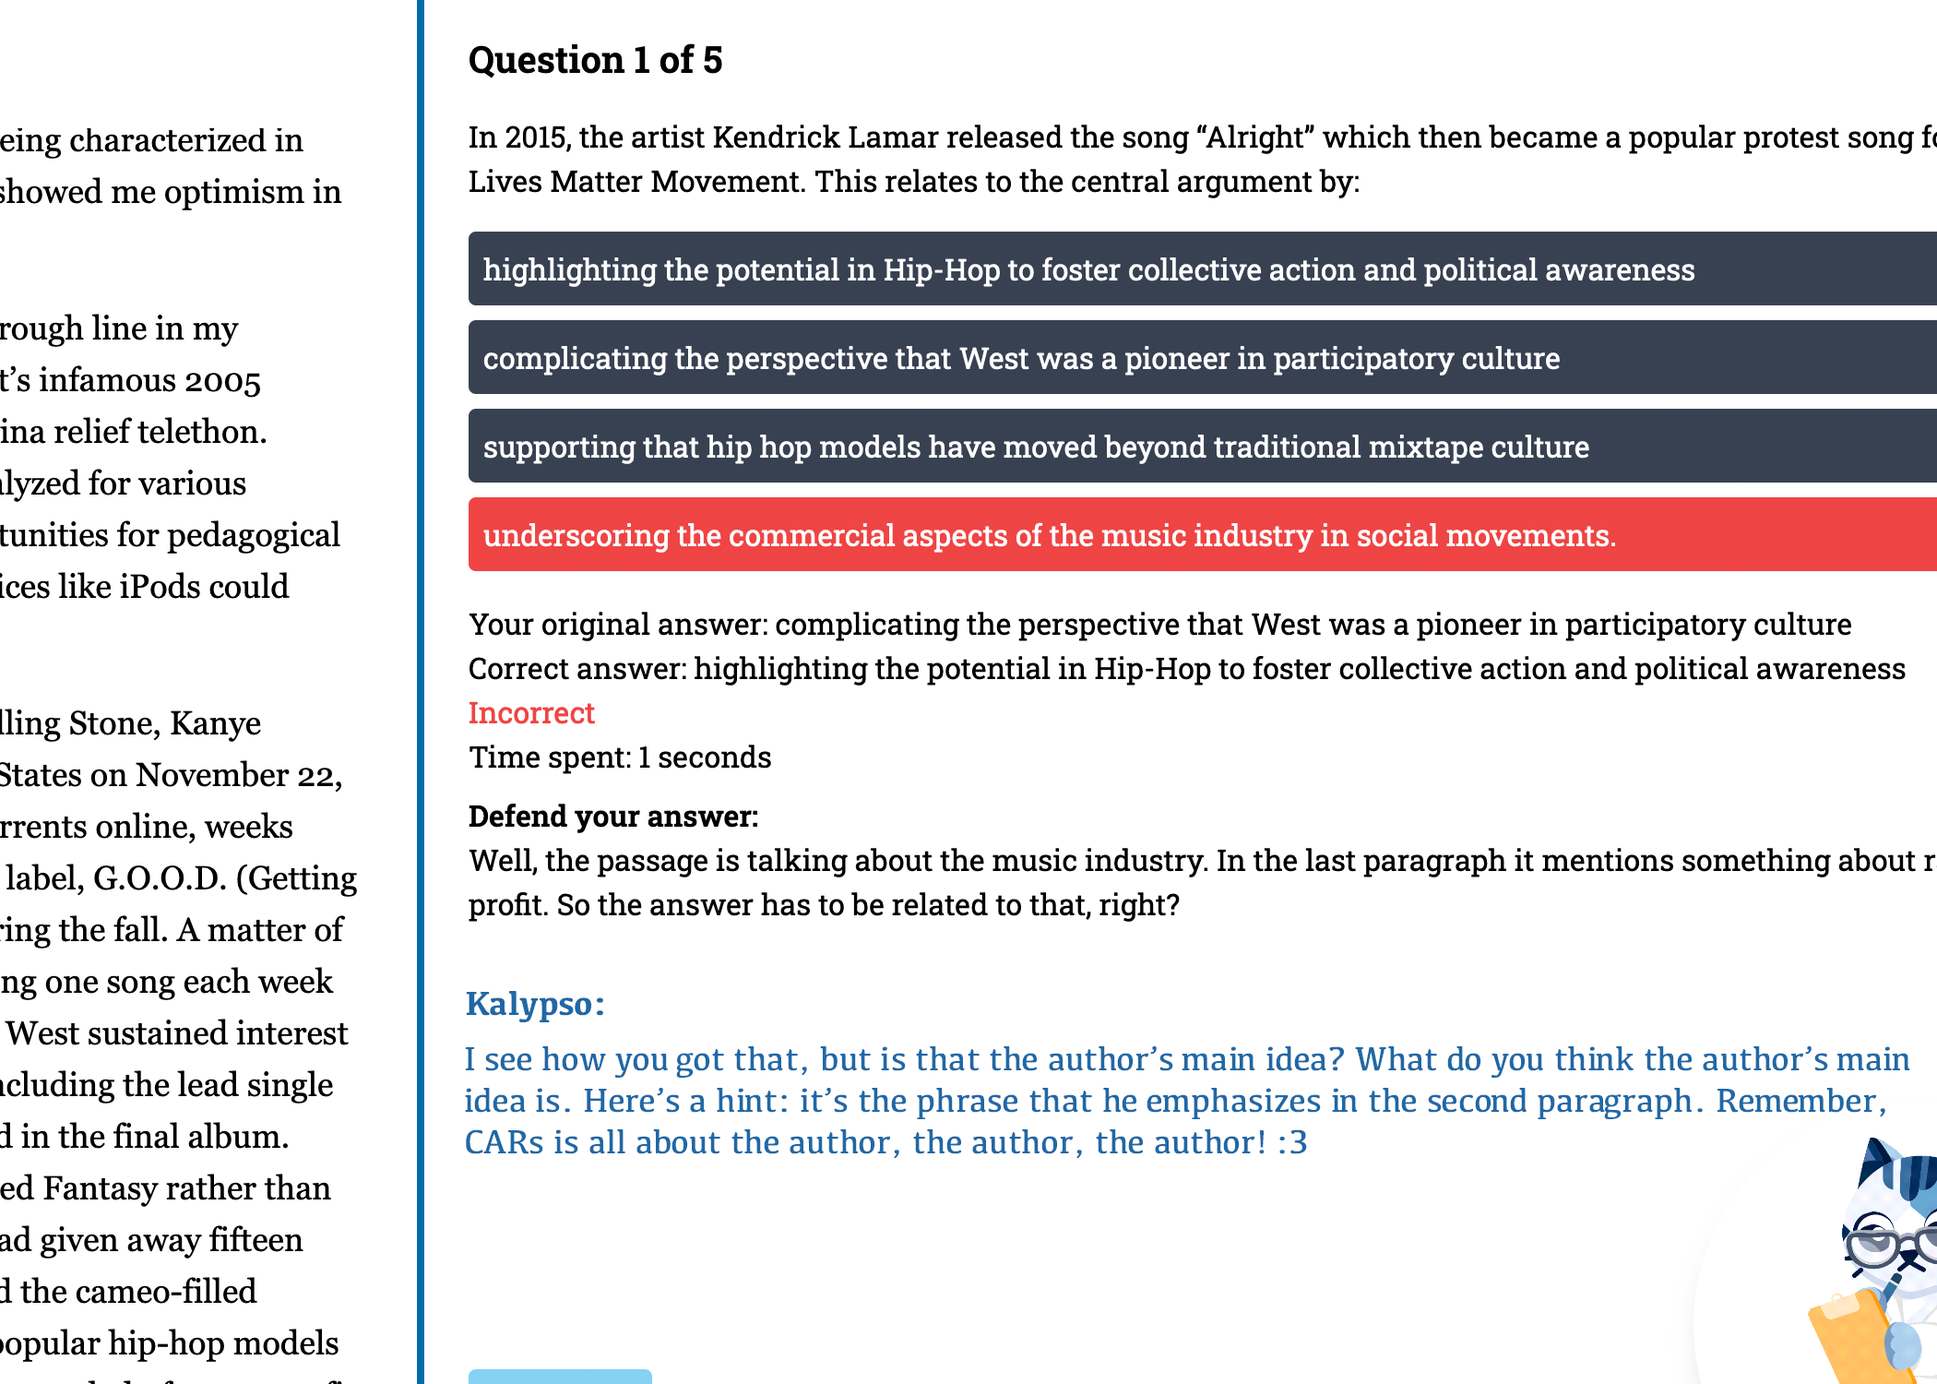
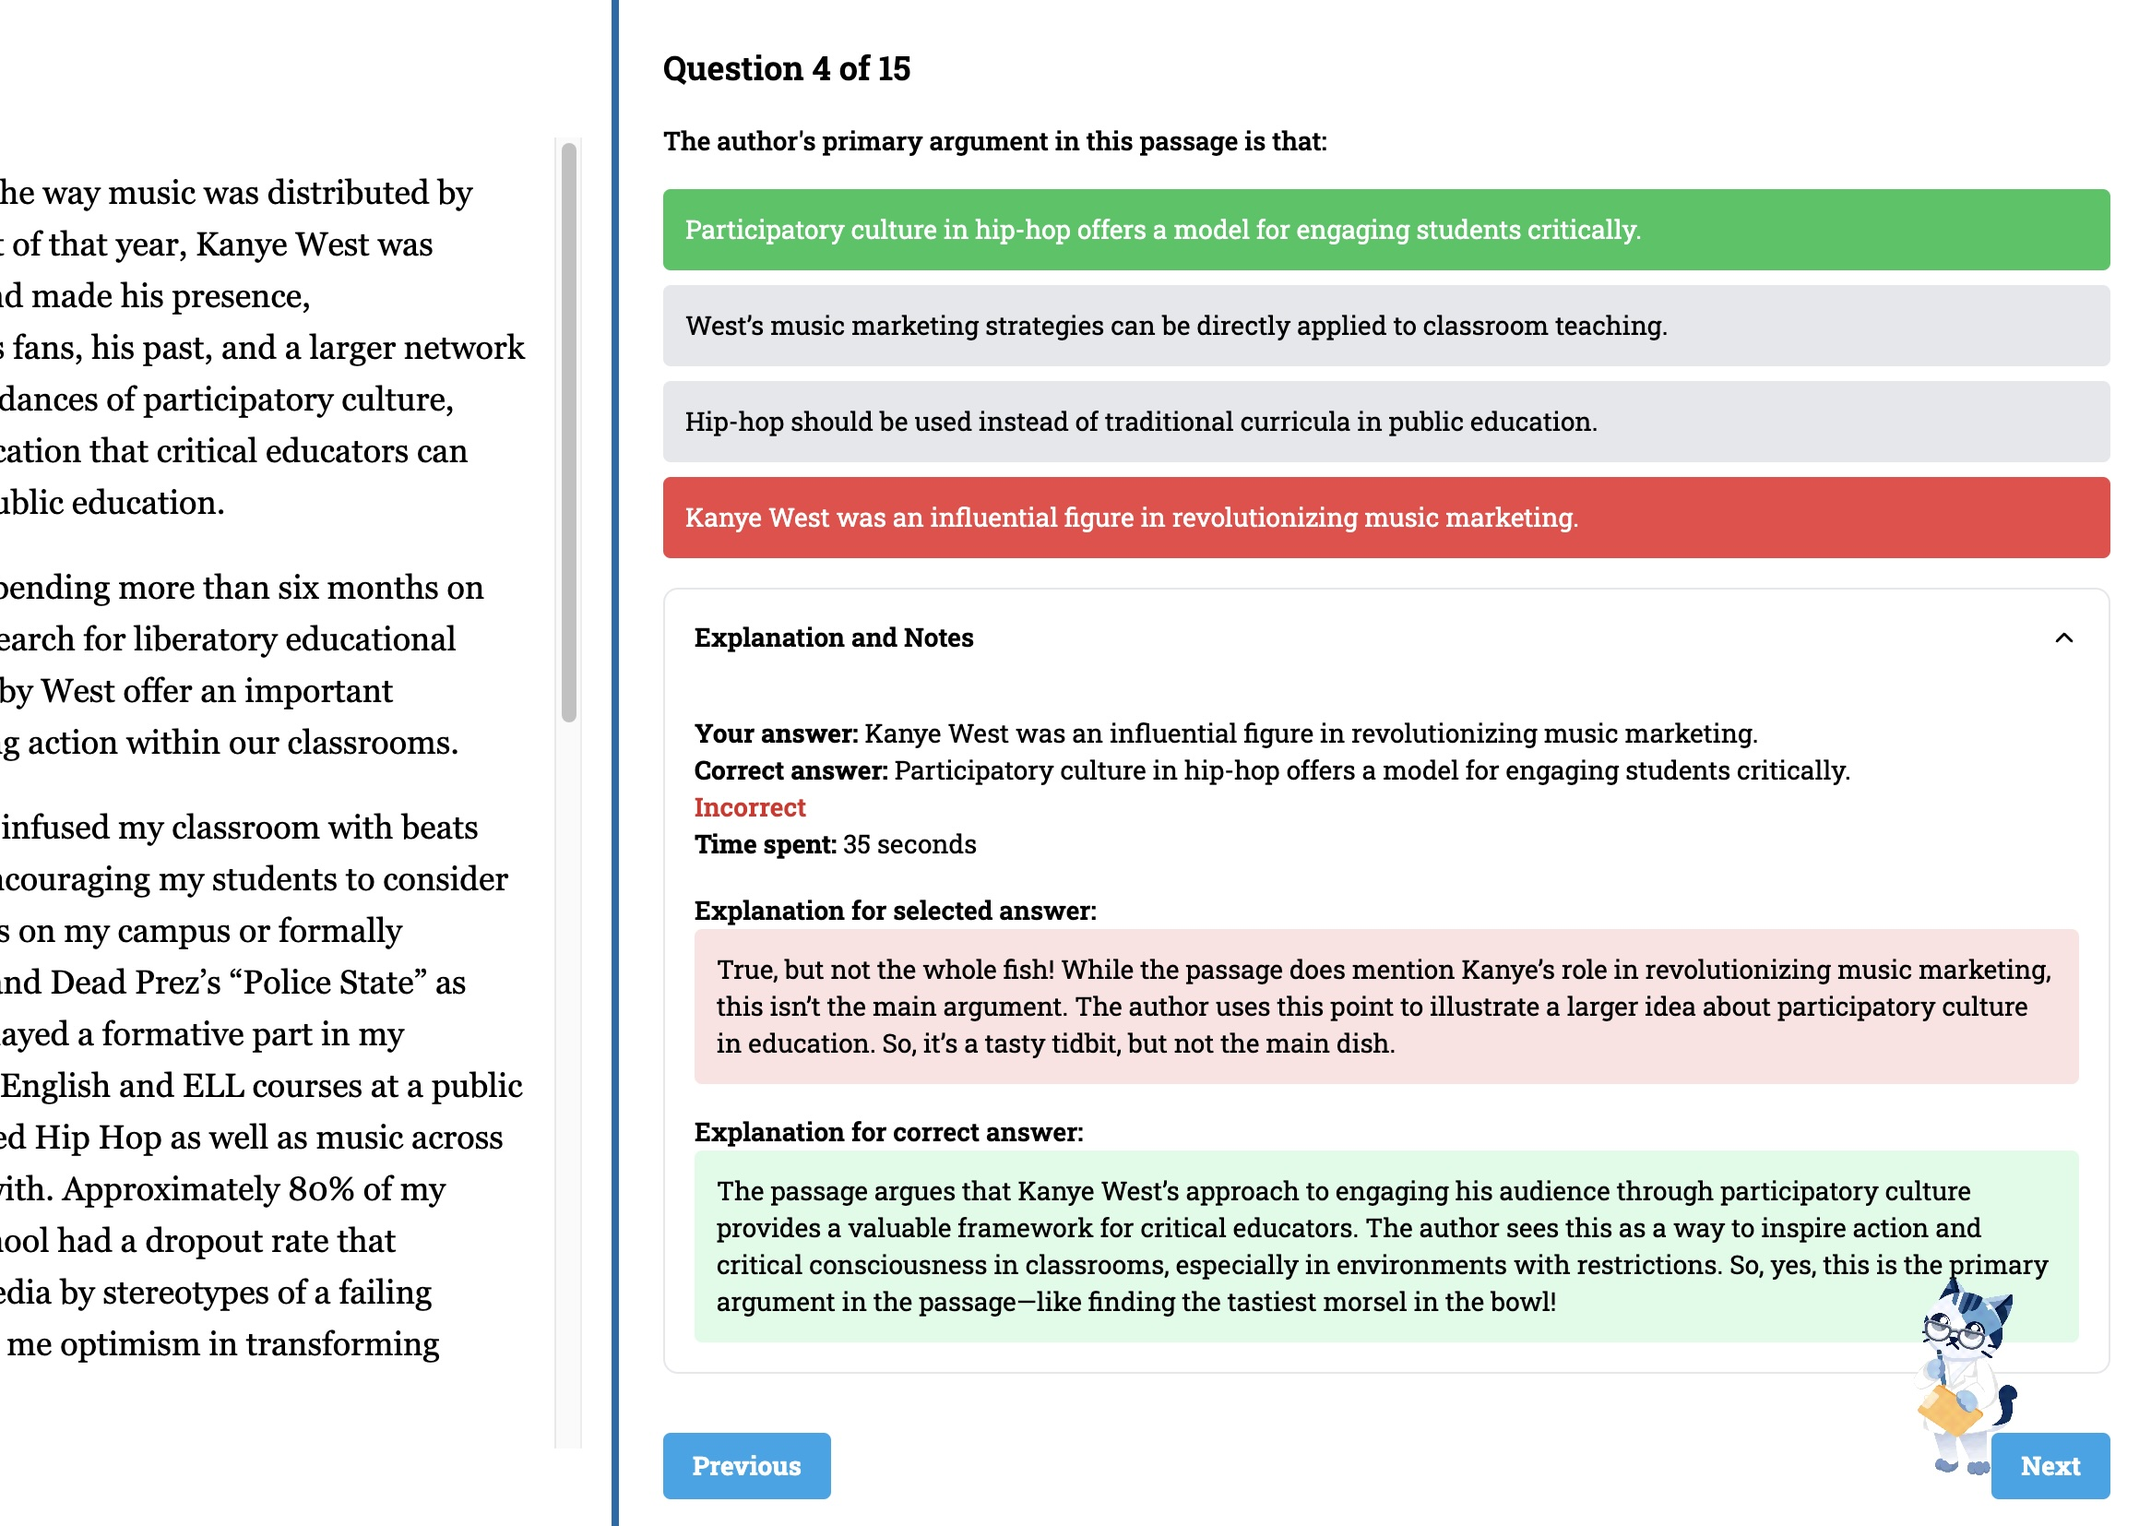
update CARs chatbot

diff --git a/app/(dashboard)/(routes)/user-test/[id]/ReviewQuestion.tsx b/app/(dashboard)/(routes)/user-test/[id]/ReviewQuestion.tsx
@@ -1,10 +1,13 @@
-// components/review/ReviewQuestion.tsx
 import React, { useState, useEffect } from 'react';
 import { Question, UserResponse } from '@/types';
-import ChatBotWidget from '@/components/chatbot/ChatbotWidget';
+import { Collapsible, CollapsibleContent, CollapsibleTrigger } from "@/components/ui/collapsible";
+import { ChevronDown, ChevronUp } from "lucide-react";
+import ChatbotWidget from '@/components/chatbot/ChatbotWidget';
+import { PassageData } from '@/components/test/Passage';
 
 interface ReviewQuestionComponentProps {
   question?: Question;
+  passageData?: PassageData;
   userResponse: UserResponse;
   onNext: () => void;
   onPrevious: () => void;
@@ -17,6 +20,7 @@ interface ReviewQuestionComponentProps {
 const ReviewQuestionComponent: React.FC<ReviewQuestionComponentProps> = ({
   question,
   userResponse,
+  passageData,
   onNext,
   onPrevious,
   isFirst,
@@ -24,70 +28,125 @@ const ReviewQuestionComponent: React.FC<ReviewQuestionComponentProps> = ({
   currentQuestionIndex,
   totalQuestions
 }) => {
-  const [selectedOption, setSelectedOption] = useState<string>(userResponse.userAnswer);
-  const [selectedAnswerNote, setSelectedAnswerNote] = useState<string>('');
-
+  const [explanations, setExplanations] = useState<string[]>([]);
+  const [selectedExplanationIndex, setSelectedExplanationIndex] = useState<number | null>(null);
+  const [isOpen, setIsOpen] = useState(true);
+  const [chatbotContext, setChatbotContext] = useState({
+    contentTitle: "",
+    context: ""
+  });
   useEffect(() => {
     if (question) {
-      setSelectedOption(userResponse.userAnswer);
       const options = JSON.parse(question.questionOptions);
       const answerNotes = JSON.parse(question.questionAnswerNotes || '[]');
+      setExplanations(answerNotes);
       const userAnswerIndex = options.indexOf(userResponse.userAnswer);
-      setSelectedAnswerNote(answerNotes[userAnswerIndex] || '');
+      setSelectedExplanationIndex(userAnswerIndex);
+
+      const correctAnswer = options[0];
+      const userAnswer = options[userAnswerIndex];
+
+      const context = `
+      I'm reviewing a test question I've answered, here's some context
+
+      ${passageData ? "Questions Passage: " + passageData.text : ""} \n
+      Question: ${question.questionContent} \n
+      Options: ${question.questionOptions} \n
+      Correct Answer: ${correctAnswer} \n
+      My Answer: ${userAnswer} \n
+      Result: ${userResponse.isCorrect ? 'Correct' : 'Incorrect'} \n
+      Time Spent: ${userResponse.timeSpent || "0"} seconds \n
+      ${userResponse.isCorrect? "": `Explanation for my answer: ${answerNotes[userAnswerIndex] || 'No explanation available.'} \n`}
+      
+      Explanation for correct answer: ${answerNotes[0] || 'No explanation available.'} \n
+            
+      Please provide any insights, clarifications, or additional information about this question and the answers.
+            `.trim();
+      setChatbotContext({
+        contentTitle: question.questionContent.slice(0.60),
+        context
+      })
     }
+
+
   }, [question, userResponse]);
 
-  if(!question) return null
+  if (!question) return null;
   const options = JSON.parse(question.questionOptions);
-  const answerNotes = JSON.parse(question.questionAnswerNotes || '[]');
+  const correctAnswerIndex = 0; // Assuming the correct answer is always the first option
 
-  const handleOptionClick = (option: string, index: number) => {
-    setSelectedOption(option);
-    setSelectedAnswerNote(answerNotes[index] || '');
+  const getOptionClass = (index: number) => {
+    if (index === correctAnswerIndex) {
+      return 'bg-green-500 text-white';
+    }
+    if (index === options.indexOf(userResponse.userAnswer) && !userResponse.isCorrect) {
+      return 'bg-red-500 text-white';
+    }
+    if (index === selectedExplanationIndex) {
+      return 'bg-blue-500 text-white';
+    }
+    return 'bg-gray-200 text-black hover:bg-gray-300 cursor-pointer';
   };
 
-  const chatbotContext = {
-    contentTitle: question.passageId ? question.passageId.toString() : 'Unknown Passage',
-    context: answerNotes.join(' ')
+  const handleOptionClick = (index: number) => {
+    setSelectedExplanationIndex(index);
   };
 
   return (
-    <div className="p-6 bg-white text-black h-full flex flex-col">
-      <h2 className="text-xl font-semibold mb-4">Question {currentQuestionIndex + 1} of {totalQuestions}</h2>
-      <div className="mb-4 flex-grow">
-        <h3 className="">{question.questionContent}</h3>
-        <div className="mt-4 text-white">
+    <div className="p-6 bg-white text-black h-full flex flex-col text-sm">
+      <h2 className="text-lg font-semibold mb-4">Question {currentQuestionIndex + 1} of {totalQuestions}</h2>
+      <div className="mb-4 flex-grow overflow-auto">
+        <h3 className="font-medium mb-2">{question.questionContent}</h3>
+        <div className="mt-4">
           {options.map((option: string, index: number) => (
             <div 
               key={index} 
-              className={`p-2 mb-2 rounded cursor-pointer ${
-                option === selectedOption
-                  ? option === options[0]
-                    ? 'bg-green-500'
-                    : 'bg-red-500'
-                  : 'bg-gray-700 hover:bg-gray-600'
-              }`}
-              onClick={() => handleOptionClick(option, index)}
+              className={`p-3 mb-2 rounded ${getOptionClass(index)}`}
+              onClick={() => handleOptionClick(index)}
             >
               {option}
             </div>
           ))}
         </div>
-        <div className="mt-4">
-          <p>Your original answer: {userResponse.userAnswer}</p>
-          <p>Correct answer: {options[0]}</p>
-          <p className={userResponse.isCorrect ? "text-green-500" : "text-red-500"}>
-            {userResponse.isCorrect ? "Correct" : "Incorrect"}
-          </p>
-          <p>Time spent: {userResponse.timeSpent || "0"} seconds</p>
-          {selectedAnswerNote && (
-            <div className="mt-2">
-              <h4 className="font-semibold">Explanation for selected answer:</h4>
-              <p>{selectedAnswerNote}</p>
+        <Collapsible open={isOpen} onOpenChange={setIsOpen} className="mt-4 border border-gray-200 rounded-lg">
+          <CollapsibleTrigger className="flex justify-between items-center w-full p-4 font-semibold">
+            Explanation and Notes
+            {isOpen ? <ChevronUp className="h-4 w-4" /> : <ChevronDown className="h-4 w-4" />}
+          </CollapsibleTrigger>
+          <CollapsibleContent className="p-4">
+            <div className="max-h-[400px] overflow-y-auto">
+              <p><strong>Your answer:</strong> {userResponse.userAnswer}</p>
+              <p><strong>Correct answer:</strong> {options[correctAnswerIndex]}</p>
+              <p className={userResponse.isCorrect ? "text-green-600 font-semibold" : "text-red-600 font-semibold"}>
+                {userResponse.isCorrect ? "Correct" : "Incorrect"}
+              </p>
+              <p><strong>Time spent:</strong> {userResponse.timeSpent || "0"} seconds</p>
+              
+              {selectedExplanationIndex !== null && (
+                <div className="mt-4">
+                  <h4 className="font-semibold">Explanation for selected answer:</h4>
+                  <p className={`p-3 rounded ${selectedExplanationIndex === correctAnswerIndex ? 'bg-green-100' : 'bg-red-100'}`}>
+                    {explanations[selectedExplanationIndex]}
+                  </p>
+                </div>
+              )}
+
+              {selectedExplanationIndex !== correctAnswerIndex && (
+                <div className="mt-4">
+                  <h4 className="font-semibold">Explanation for correct answer:</h4>
+                  <p className="bg-green-100 p-3 rounded">{explanations[correctAnswerIndex]}</p>
+                </div>
+              )}
+
+              {userResponse.userNotes && (
+                <div className="mt-4">
+                  <h4 className="font-semibold">Your notes:</h4>
+                  <p className="bg-blue-100 p-3 rounded">{userResponse.userNotes}</p>
+                </div>
+              )}
             </div>
-          )}
-          {userResponse.userNotes && <p>Your notes: {userResponse.userNotes}</p>}
-        </div>
+          </CollapsibleContent>
+        </Collapsible>
       </div>
       <div className="flex justify-between mt-4">
         <button
@@ -106,7 +165,9 @@ const ReviewQuestionComponent: React.FC<ReviewQuestionComponentProps> = ({
         </button>
       </div>
       <div className="mt-4">
-        <ChatBotWidget chatbotContext={chatbotContext} />
+        <ChatbotWidget chatbotContext={chatbotContext} buttonSize={120} chatbotWidth={750} chatbotHeight={300}
+        isVoiceEnabled={false}
+        />
       </div>
     </div>
   );

diff --git a/components/chatbot/ChatBot.tsx b/components/chatbot/ChatBot.tsx
@@ -11,9 +11,16 @@ interface MyChatBotProps {
     context: string;
   };
   isVoiceEnabled?: boolean;
+  width?: string | number;
+  backgroundColor?: string;
 }
 
-const MyChatBot: React.FC<MyChatBotProps> = ({ chatbotContext, isVoiceEnabled = true }) => {
+const MyChatBot: React.FC<MyChatBotProps> = ({ 
+  chatbotContext, 
+  isVoiceEnabled = true, 
+  width = '100%',
+  backgroundColor = '#033979'
+}) => {
   const [isLoading, setIsLoading] = useState(false);
   const [error, setError] = useState<string | null>(null);
   const [isMounted, setIsMounted] = useState(false);
@@ -106,9 +113,11 @@ const MyChatBot: React.FC<MyChatBotProps> = ({ chatbotContext, isVoiceEnabled = 
     console.log('Screenshot taken:', blob);
     // Add logic here to handle the screenshot
   };
+
   const toggleAudio = () => {
     setAudioEnabled(!audioEnabled);
   };
+
   const flow = {
     start: {
       message: `Hi! I'm Kalypso the cat, your MCAT assistant. ${contentTitle ? `Looks like you're working on ${contentTitle}.` : ""} How can I help you today?`,
@@ -139,8 +148,6 @@ const MyChatBot: React.FC<MyChatBotProps> = ({ chatbotContext, isVoiceEnabled = 
             onClick={() => window.open("https://www.youtube.com/watch?v=dQw4w9WgXcQ")}
           >
           </div>
-          {/* <ScreenshotButton onScreenshot={handleScreenshot} />
-          <FileUploadComponent /> */}
           <button 
             onClick={toggleAudio}
             className="px-2 py-1 text-sm bg-blue-500 text-white rounded hover:bg-blue-600 transition-colors"
@@ -163,13 +170,15 @@ const MyChatBot: React.FC<MyChatBotProps> = ({ chatbotContext, isVoiceEnabled = 
     },
     botBubble: { simStream: true },
   };
+
   const styles = {
     chatWindowStyle: {
-      backgroundColor: '#033979',
+      backgroundColor: backgroundColor,
+      width: width,
     },
     botBubbleStyle: {fontSize: "16px", fontFamily: "Consolas, monospace", color: "#aec8e8"},
     userBubbleStyle: {fontSize: "16px", fontFamily: "Consolas, monospace"},
-    headerStyle: {background: "#033979"},
+    headerStyle: {background: backgroundColor},
   };
 
   const themes = [{ id: "terminal", version: "0.1.0" }];
@@ -179,8 +188,8 @@ const MyChatBot: React.FC<MyChatBotProps> = ({ chatbotContext, isVoiceEnabled = 
   }
 
   return (
-    <div>
-       <style jsx global>{`
+    <div style={{ width: width, backgroundColor: backgroundColor }}>
+      <style jsx global>{`
         .rcb-chat-input::before {
           content: none !important;
         }
@@ -197,10 +206,15 @@ const MyChatBot: React.FC<MyChatBotProps> = ({ chatbotContext, isVoiceEnabled = 
   );
 };
 
-const App: React.FC<MyChatBotProps> = ({ chatbotContext, isVoiceEnabled }) => {
+const App: React.FC<MyChatBotProps> = ({ chatbotContext, isVoiceEnabled, width, backgroundColor }) => {
   return (
     <div style={{display: "flex", justifyContent: "center", alignItems: "center"}}>
-      <MyChatBot chatbotContext={chatbotContext} isVoiceEnabled={isVoiceEnabled} />
+      <MyChatBot 
+        chatbotContext={chatbotContext} 
+        isVoiceEnabled={isVoiceEnabled} 
+        width={width} 
+        backgroundColor={backgroundColor}
+      />
     </div>
   );
 };

diff --git a/components/chatbot/ChatbotWidget.tsx b/components/chatbot/ChatbotWidget.tsx
@@ -8,11 +8,26 @@ interface ChatbotContext {
 
 interface ChatbotWidgetProps {
   chatbotContext: ChatbotContext;
+  chatbotWidth?: number | string;
+  chatbotHeight?: number | string;
+  buttonSize?: number | string;
+  isAnimationEnabled?: boolean;
+  backgroundColor?: string;
+  isVoiceEnabled?: boolean
 }
 
 type KalypsoState = 'wait' | 'talk' | 'end' | 'start';
 
-const ChatbotWidget: React.FC<ChatbotWidgetProps> = ({ chatbotContext }) => {
+const ChatbotWidget: React.FC<ChatbotWidgetProps> = ({ 
+  chatbotContext, 
+  chatbotWidth = 400, 
+  chatbotHeight = 490, 
+  buttonSize = 150,
+  isAnimationEnabled ,
+  backgroundColor,
+  isVoiceEnabled
+
+}) => {
   const [showChatbot, setShowChatbot] = useState<boolean>(false);
   const [kalypsoState, setKalypsoState] = useState<KalypsoState>('wait');
   const kalypsoRef = useRef<HTMLImageElement>(null);
@@ -26,6 +41,10 @@ const ChatbotWidget: React.FC<ChatbotWidgetProps> = ({ chatbotContext }) => {
   };
 
   const toggleChatBot = (): void => {
+    if (isAnimationEnabled){
+      setShowChatbot(true);
+      return
+    }
     if (timeoutRef.current) {
       clearTimeout(timeoutRef.current);
     }
@@ -56,23 +75,27 @@ const ChatbotWidget: React.FC<ChatbotWidgetProps> = ({ chatbotContext }) => {
 
   return (
     <div className="fixed inset-0 pointer-events-none z-50">
-      <div className="absolute bottom-6 right-8 flex flex-col items-end pointer-events-auto">
+      <div className="absolute bottom-6 right-12 flex flex-col items-end pointer-events-auto">
         {showChatbot && (
           <div
-            className="bg-black rounded-lg shadow-lg overflow-hidden mb-4"
+            className="rounded-lg shadow-lg overflow-hidden mb-4"
             style={{
-              width: "375px",
-              height: "490px",
-              boxShadow: '0 0 20px 8px rgba(0, 123, 255, 0.5)',
+              width: chatbotWidth,
+              height: chatbotHeight,
+              boxShadow: '0 0 15px 6px rgba(0, 123, 255, 0.4)',
             }}
           >
-            <ChatBot chatbotContext={chatbotContext} />
+            <ChatBot chatbotContext={chatbotContext} width={chatbotWidth} backgroundColor={backgroundColor}  isVoiceEnabled={isVoiceEnabled}/>
           </div>
         )}
         <button
-          className="w-60 h-60 rounded-full overflow-hidden shadow-lg transition duration-120 ease-in-out transform hover:-translate-y-1 hover:scale-105 focus:outline-none"
+          className="overflow-hidden transition duration-120 ease-in-out transform hover:-translate-y-1 hover:scale-105 focus:outline-none"
           onClick={toggleChatBot}
           aria-label={showChatbot ? "Close Chat" : "Open Chat"}
+          style={{
+            width: buttonSize,
+            height: buttonSize,
+          }}
         >
           <img
             ref={kalypsoRef}

diff --git a/components/landingpage/AnimatedContent.tsx b/components/landingpage/AnimatedContent.tsx
@@ -3,7 +3,7 @@
 import { useEffect, useRef } from "react";
 import { gsap } from "gsap";
 import { ScrollTrigger } from "gsap/ScrollTrigger";
-import Methodlogy from "./Mission";
+import Methodology from "./Mission";
 import CheckListing from "./CheckListing";
 import Faqs from "./Faqs";
 
@@ -61,7 +61,7 @@ const AnimatedContent = () => {
   return (
     <div style={{ position: 'relative', zIndex: 1 }}>
       <div ref={methodologyRef} style={{ background: 'white' }}>
-        <Methodlogy />
+        <Methodology />
       </div>
       <div ref={checkListingRef} style={{ background: 'white' }}>
         <CheckListing />

diff --git a/app/(dashboard)/(routes)/user-test/[id]/page.tsx b/app/(dashboard)/(routes)/user-test/[id]/page.tsx
@@ -138,6 +138,7 @@ export default function UserTestReviewPage() {
                   <div className="flex-grow overflow-auto">
                     <ReviewQuestionComponent
                       question={currentResponse.question}
+                      passageData={currentPassage} 
                       userResponse={currentResponse}
                       onNext={handleNextQuestion}
                       onPrevious={handlePreviousQuestion}
